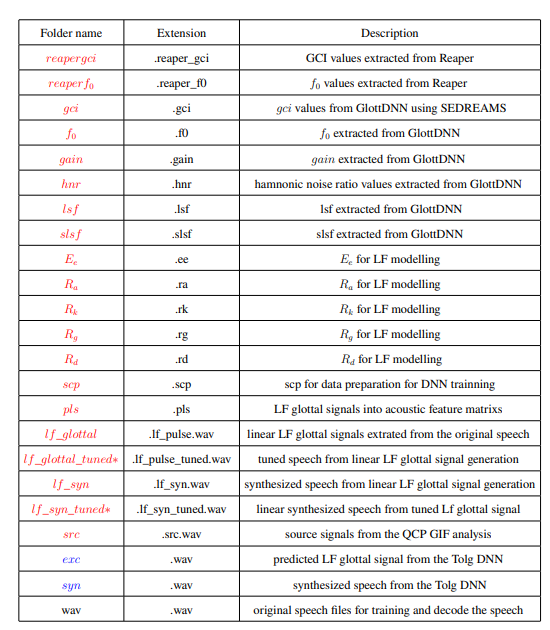
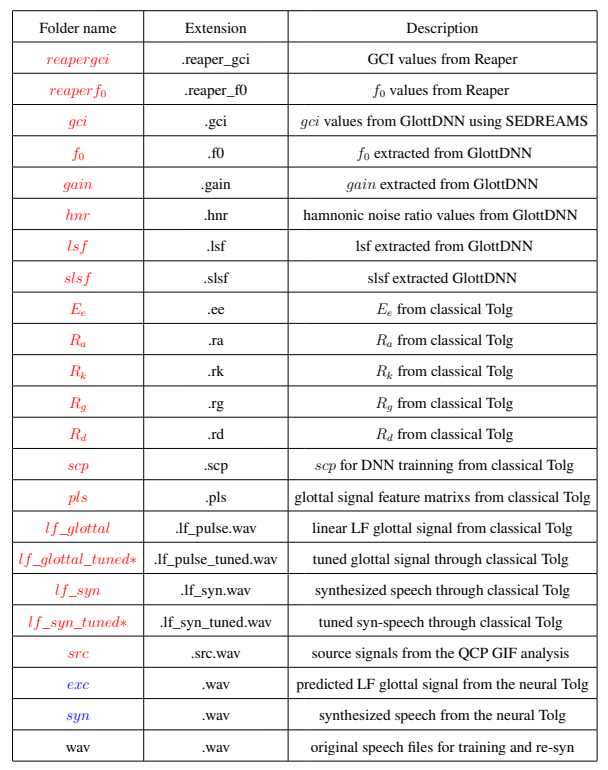
update the readme

diff --git a/README.md b/README.md
@@ -1,9 +1,12 @@
-# Tolg: A classical and neural LF glottal vocoder for generative source-filter speech synthesis and modification
-
+# Tolg: A classical and neural hybrid LF glottal vocoder for generative source-filter speech synthesis and modification
 
 ## Acknowledge
 The vocoder employed here is derived from GlottDNN vocoder, now featuring the integration of the LF glottal modelling.
 https://github.com/ljuvela/GlottDNN
+
+
+
+
 
 <div align="center">
   <img src="./img/logo.svg" width = "30%" height = "30%">
@@ -17,9 +20,23 @@ now re-factored and re-written in C++ for better integration for copy-syn and DN
   <img src="./img/tolg_files.png" width = "50%" height = "50%">
 </div>
 
+LF Glottal model pulses (top), flow derivative (bottom).Figure from (Dr. Christer Gobl https://www.tcd.ie/research/profiles/?profile=cegobl)
+
+
+<div align="center">
+  <img src="./img/lf.png" width = "50%" height = "50%">
+</div>
+
+Configuration folder reference list. The files obtained from the analysis stage of Tolg are colored red, whereas those from the synthesize stage are colored blue. The conditional
+feature, which depends on the value of in the configuration file, is denoted by *.
+
+
 <div align="center">
   <img src="./img/file_folders.png" width = "50%" height = "50%">
 </div>
+
+
+Generating the LF glottal excitation signal from the proposed neural Tolg together with the classical Tolg vocoder and LF glottal flow output from GIF.
 
 <div align="center">
   <img src="./img/comparison.png" width = "50%" height = "50%">
@@ -150,7 +167,7 @@ echo 'unset OLD_LD_LIBRARY_PATH' >> $DEACTIVATE_SCRIPT
 ## Easy to go all-in-one Example:
 
 ```
-python3 ./python/GlottDnnScript.py ./dnn_demo/config_dnn_demo.py
+python3 ./python/TolgDnnScript.py ./dnn_demo/config_dnn_demo.py
 ```
 The present version requires `pytorch>=1.1.0` and all `theano` dependencies have been removed.
 
@@ -164,12 +181,8 @@ Before we run anything, you can modify the configuration files below:
 
 Then run the example script by running
 ``` bash
-python3 ./python/GlottDnnScript.py ./dnn_demo/config_dnn_demo.py
+python3 ./python/TolgScript.py ./dnn_demo/config_dnn_demo.py
 ```
-
-<div align="center">
-  <img src="./img/file_folders.png" width = "50%" height = "50%">
-</div>
 
 
 The demo script runs vocoder analysis, trains a DNN excitation model, and finally applies copy-synthesis to the samples.
@@ -212,33 +225,7 @@ x2x +fa slt_arctic_a0001.f0 > output.txt
 Here is to convert an Asscii file into float number.
 
 
-
-## One step analysis-synthesis example
-
-These examples assume 16kHz sampling rate audio. Other sampling rates are feasible, but you should change the config accordingly.  
-
-
-
-
-This is the analysis part:
-
-```
-./src/Analysis ../dnn_demo/data/wav/slt_arctic_a0001.wav ../dnn_demo/config_dnn_demo.cfg
-```
-
-
-Let's first get a wave file from the Arctic database
-``` bash 
-#!/bin/bash
-
-URL='http://festvox.org/cmu_arctic/cmu_arctic/cmu_us_slt_arctic/wav/arctic_a0001.wav'
-DATADIR='./data/tmp'
-BASENAME='slt_arctic_a0001'
-mkdir -p $DATADIR
-wget -O "$DATADIR/$BASENAME.wav" $URL
-```
-
-### Acoustic feature analysis
+### LF Acoustic parameter analysis
 
 Now run Tolg Analysis program with default configuration
 ``` bash
@@ -247,48 +234,6 @@ or
 ./src/Analysis "$DATADIR/$BASENAME.wav" ./src/config_default_16k.cfg
 
 ```
-
-
-
-### Synthesis with single pulse excitation 
-
-First let's run copy synthesis with `SINGLE_PULSE` excitation. This method uses a single fixed glottal pulse, which is modified according to F0 and HNR (similarly to the original GlottHMM vocoder).
-
-``` bash
-# Run synthesis with default config
-./src/Synthesis "$DATADIR/$BASENAME" ./config/config_default_16k.cfg
-
-# Move generated file
-mv "$DATADIR/$BASENAME.syn.wav" "$DATADIR/$BASENAME.syn.sp.wav"    
-```
-
-A copy-synthesis wave file should now be at `./data/tmp/slt_arctic_a0001.syn.sp.wav`.
-The single pulse excitation will sound somewhat buzzy, so let's try if we can do better.
-
-### Synthesis with original pulses
-
- We already extracted glottal pulses from the signal and stored them in `./data/tmp/slt_arctic_a0001.pls`. 
- Better quality can be achieved by re-assembling the original pulses using pitch synchronous overlap-add. 
-
-To override some of the default config values, we can create a "user config" file and run Synthesis with two config files
-
-``` bash
-# Create user config
-CONF_USR="$DATADIR/config_usr.cfg"
-echo '# Comment: User config for GlottDNN' > $CONF_USR  
-echo 'EXCITATION_METHOD = "PULSES_AS_FEATURES";' >> $CONF_USR
-echo 'USE_WSOLA = true;' >> $CONF_USR
-echo 'USE_SPECTRAL_MATCHING = false;' >> $CONF_USR
-echo 'NOISE_GAIN_VOICED = 0.0;' >> $CONF_USR
-
-# Run synthesis with two config files
-./src/Synthesis "$DATADIR/$BASENAME" ./config/config_default_16k.cfg $CONF_USR
-
-# Move generated file
-mv "$DATADIR/$BASENAME.syn.wav" "$DATADIR/$BASENAME.syn.paf.wav"       
-```
-
-Of course the original pulses are not available in many applications (such as text-to-speech). For this, we can use a trainable excitation model (neural net), which generates the pulses from acoustic features.
 
 ## Built-in neural net excitation model 
 
@@ -300,13 +245,7 @@ make_dirs = 1
 make_scp = 1
 ```
 
-Optionally, use REAPER for pitch (F0) and GCI analysis. 
-Also optionally, use RAPT from SPTK for pitch analysis. These programs need to be installed separately, so this example does not use them. 
 
-``` python
-do_reaper_pitch_analysis = 0
-do_sptk_pitch_analysis = 0
-```
 
 Use Tolg to extract glottal vocoder features and pulses for  excitation model training.
 ``` python
@@ -324,54 +263,3 @@ Do copy synthesis (using the internal implementation of DNN excitation)
 ``` python
 do_glott_vocoder_synthesis = 1
 ```
-
-### Improvements from toy example
-
-1) Use more data
-2) Experiment with different pitch estimators
-    - https://github.com/google/REAPER
-    - http://sp-tk.sourceforge.net
-3) Use more advanced excitation models
-    - https://github.com/ljuvela/multiscale-GAN
-    - https://github.com/ljuvela/ResGAN
-    - Build your own
-
-## Support
-
-When in trouble, open an issue at GitHub. Others will likely have similar issues and it's best to solve them collectively
-
-https://github.com/tolg-voice/tolg/issues
-
-For more examples and explanation, check the documentation in
-
-https://grabvoice.com/tlog
-
-## Licence
-
-Copyright 2016-2018 Lauri Juvela and Manu Airaksinen
-
-This product includes software developed at Aalto University (http://www.aalto.fi/).
-
-Licensed under the Apache License, Version 2.0
-See LICENCE and NOTICE for full licence details. 
-
-If you publish work based on GlottDNN, please cite
-```
-    M. Airaksinen, L. Juvela, B. Bollepalli, J. Yamagishi and P. Alku,
-    "A comparison between STRAIGHT, glottal, and sinusoidal vocoding in statistical parametric speech synthesis,"
-    in IEEE/ACM Transactions on Audio, Speech, and Language Processing.
-    doi: 10.1109/TASLP.2018.2835720. 
-```    
-
-The paper also contains a technical details of the vocoder 
-
-If the software is to be deployed in commercial products, permission must be asked from Aalto University 
-    (please contact: lauri.juvela@aalto.fi , manu.airaksinen@aalto.fi or paavo.alku@aalto.fi). 
-
-
-
-
-
-This software distribution also includes third-party C++ wrappers for the GSL library, which are licenced separately under the GPL 3 licence. 
-For details, see
-    `src/gslwrap/LICENCE`
